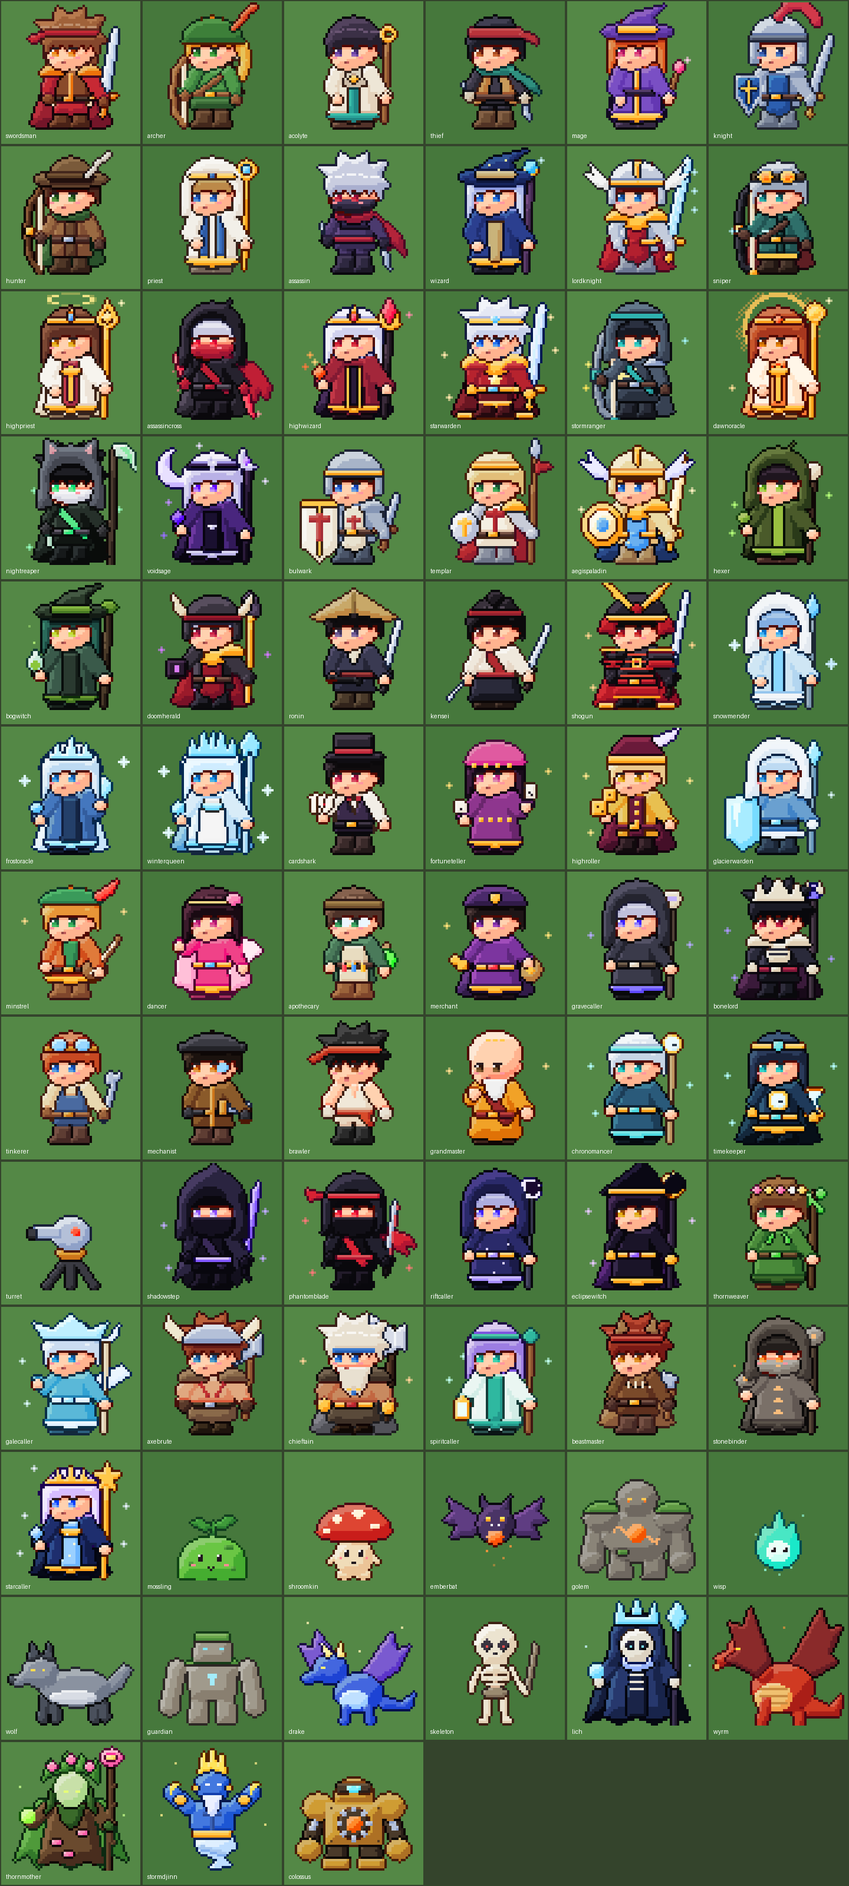
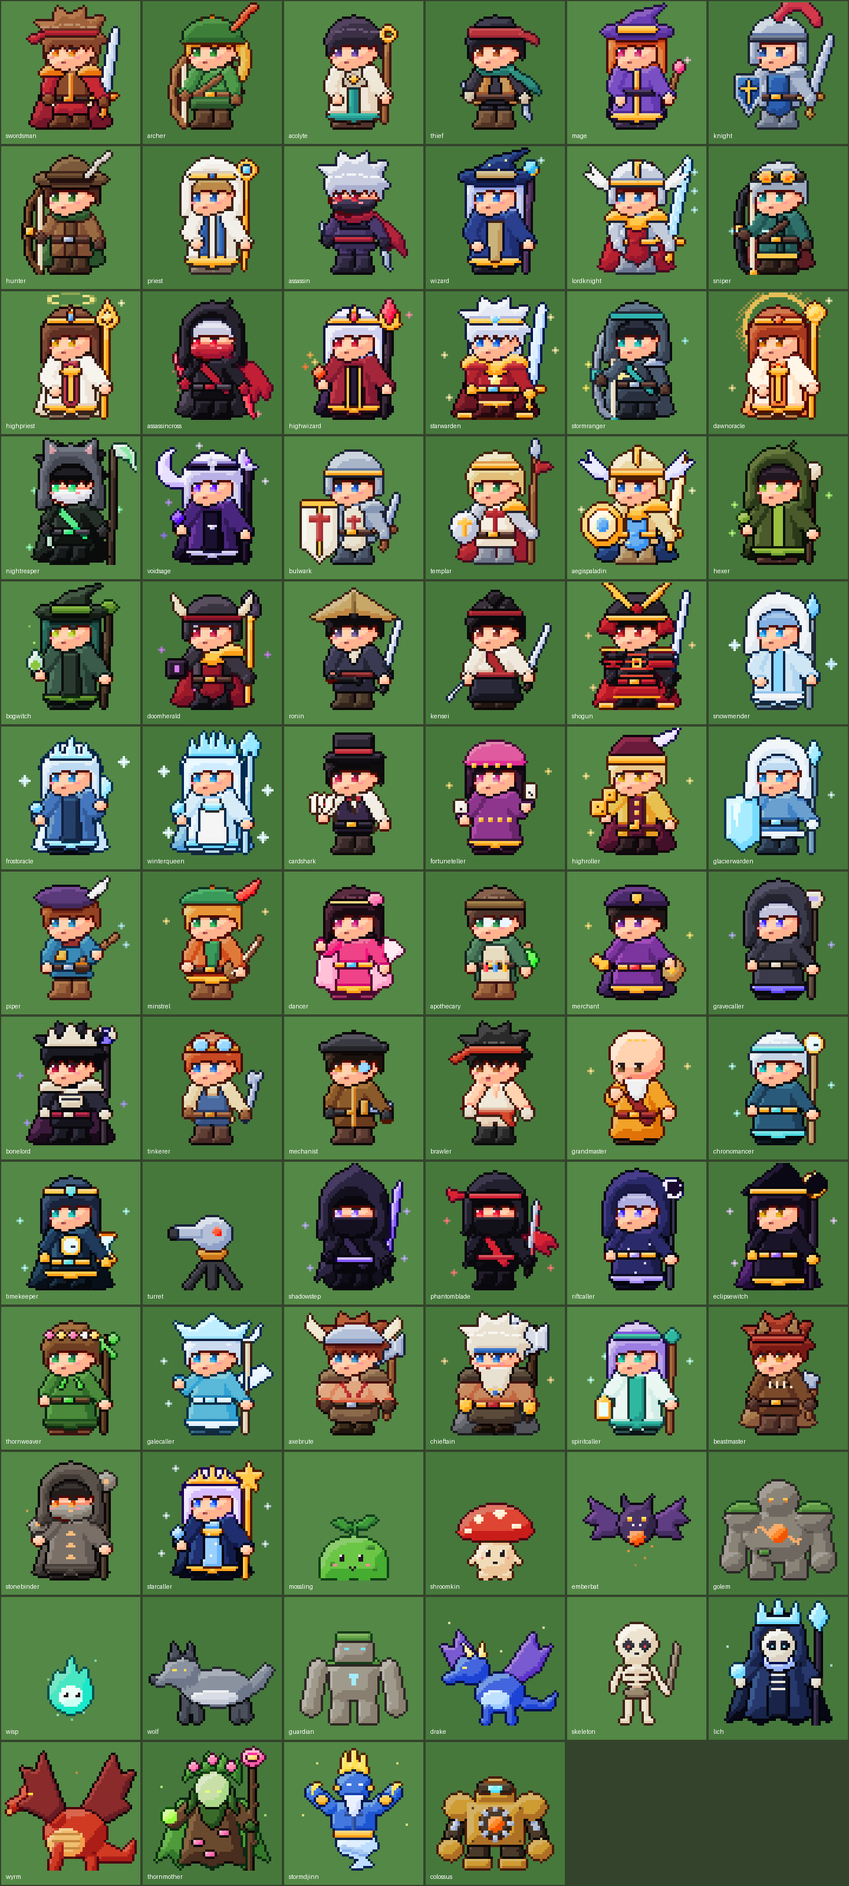
Minstrel moves to 4 gold (Crescendo 90 mana); new 1-gold Bard: Piper with Encore

diff --git a/ro-autobattler.html b/ro-autobattler.html
@@ -358,7 +358,7 @@ select{background:#1f1610;color:var(--text);border:1px solid #5a4024;border-radi
         <li><b>Mark heroes</b> you want in the 📖 Codex (☆, up to 10): they glow gold in the shop.</li>
         <li><b>Runs</b> (☰): <b>Daily Challenge</b> gives everyone the same shops, enemies and events for the day; <b>Hard</b> unlocks at round 15 and adds a run modifier. Every 4th round brings an <b>event</b>: a merchant, a mystery chest or a training ground.</li>
         <li><b>Ninjas</b> dash between enemies. <b>Gravity</b> mages pull enemies together (Event Horizon holds them in a black hole). <b>Druids</b> 🌿 <b>root</b> enemies (rooted: can't walk or use moving skills, only attacks what is in range) and carry allies to safety. <b>Berserkers</b> are giants that spin their axes through crowds. Gambler cards fly as projectiles; summons' attacks carry a small elemental effect (burn, bleed, slow, mana drain…).</li>
-        <li><b>Bards</b> sing to nearby allies, one song every 4s: ♪ Haste (attack speed) → Guard (less damage taken) → Spirit (mana). <b>Alchemists</b> throw potions and earn gold. <b>Necromancers</b> raise fallen enemies to fight for you. <b>Engineers</b> build turrets. <b>Monks</b> dodge and get faster with every hit. <b>Teleporters</b> move allies onto the weakest enemy: the 2💰 Teleporter sends the ally behind it (or any neighbour), the 4💰 Warp Master sends everyone within 2 cells and stuns where they land.</li>
+        <li><b>Bards</b> sing to nearby allies, one song every 4s: ♪ Haste (attack speed) → Guard (less damage taken) → Spirit (mana). The 1💰 Piper replays the current song (Encore); the 4💰 Minstrel plays all three at once (Crescendo). <b>Alchemists</b> throw potions and earn gold. <b>Necromancers</b> raise fallen enemies to fight for you. <b>Engineers</b> build turrets. <b>Monks</b> dodge and get faster with every hit. <b>Teleporters</b> move allies onto the weakest enemy: the 2💰 Teleporter sends the ally behind it (or any neighbour), the 4💰 Warp Master sends everyone within 2 cells and stuns where they land.</li>
         <li><b>Statuses</b>: 💫 Stun 1s · 🤐 Silence 2s · 🌫 Blind 2s · 🚫 Disarm 1s · 🐌 Slow · ☠ <b>Poison</b>: damage once per second, <b>stacks up to 5</b>, lasts at least 5s and cuts healing on the target by 30% (good vs healers) · 🔥 <b>Burn</b>: fire skills, damage twice per second, refreshes instead of stacking, <b>deals double damage to shields</b> and <b>jumps to a nearby enemy</b> when the target dies (good vs shields and groups). Fire melts Frozen; freezing puts out fire. A hero can be poisoned and burning at once · 🧊 Frozen — ice skills may freeze; any direct hit shatters it. Bosses can't be frozen.</li>
         <li><b>Shop odds</b>: 2💰 heroes from round 4, 3💰 from round 8, 4💰 from round 12. Each shop Upgrade improves the odds; a fully upgraded shop late in the run rolls 1💰 heroes only 10% of the time, and each slot has a 5% extra chance to show a hero you already own (not yet ★★★). "Lock" keeps the shop for next round.</li>
         <li><b>Field slots</b>: start with 3, buy more up to 9 (6, 10, 15, 21, 28, 36 gold).</li>
@@ -490,7 +490,8 @@ const UNITS = [
   {id:'stonebinder', name:'Stonebinder',  cls:'summoner',org:'ironvow',  cost:3,hp:980, atk:72, range:3,as:1.1, ms:1.4,calls:'guardian'},
   {id:'starcaller',  name:'Starcaller',   cls:'summoner',org:'starborn', cost:4,hp:1080,atk:100,range:4,as:1.1, ms:1.3,calls:'drake'},
   // bards: a song aura that cycles every 4s: Haste (attack speed) -> Guard (less damage taken) -> Spirit (mana)
-  {id:'minstrel',    name:'Minstrel',     cls:'bard',org:'starborn',     cost:1,hp:480, atk:36, range:3,as:1.0, ms:1.4},
+  {id:'piper',       name:'Piper',        cls:'bard',org:'gilded',       cost:1,hp:460, atk:34, range:3,as:1.0, ms:1.4},
+  {id:'minstrel',    name:'Minstrel',     cls:'bard',org:'starborn',     cost:4,hp:1150,atk:85, range:3,as:1.0, ms:1.4},
   {id:'dancer',      name:'Blade Dancer', cls:'bard',org:'moonblood',    cost:3,hp:1050,atk:95, range:1,as:.7, ms:2.0},
   // alchemists: potions and gold
   {id:'apothecary',  name:'Apothecary',   cls:'alchemist',org:'wildheart',cost:1,hp:470, atk:42, range:3,as:1.0, ms:1.4},
@@ -792,7 +793,10 @@ const SKILLS = {
   winterqueen:{name:'Absolute Zero', mp:100, desc:'Wards the two most endangered allies in ice for 2.5s, gives every ally 120% of its heal over 5s, and enemies next to the warded allies have a 40% chance to Freeze for 2s.',
     cast(a){ V({k:'flash',x:0,y:0,c:'#dff8ff',m:.3}); for(const w of friends(a).sort(byHurt).slice(0,2)){ ward(w,2.5,a); for(const e of foes(a)) if(dist(e,w)<=1.5) freeze(e,.4,2); }
       for(const b of friends(a)) hot(b,a.heal*1.2,5,a); FX('strike',a.x,a.y+.3,{s:.9,tint:'#cff6ff',m:.6}); }},
-  minstrel:{name:'Crescendo', mp:70, desc:'Plays all three songs at once at double strength for 4s for allies within 3 cells: +40% attack speed, 30% less damage taken and +8 mana per second.',
+  piper:{name:'Encore', mp:60, desc:'Replays the song that is playing right now at double strength for 3s for allies within 2 cells (Haste: +40% attack speed · Guard: 30% less damage taken · Spirit: +8 mana per second).',
+    cast(a){ const s=S.fight.song||0; for(const b of friends(a)) if(dist(a,b)<=2){ b.enc={t:3,song:s}; FX('spark',b.x,b.y-.5,{s:.45,tint:SONGS[s].c,m:.5}); }
+      V({k:'ring',x:a.x,y:a.y,r:2,c:SONGS[s].c,m:.6}); notes(a,3); }},
+  minstrel:{name:'Crescendo', mp:90, desc:'Plays all three songs at once at double strength for 4s for allies within 3 cells: +40% attack speed, 30% less damage taken and +8 mana per second.',
     cast(a){ for(const b of friends(a)) if(dist(a,b)<=3){ b.cresc=4; FX('spark',b.x,b.y-.5,{s:.5,tint:'#ffd27a',m:.5}); } V({k:'ring',x:a.x,y:a.y,r:3,c:'#ffb050',m:.7}); notes(a,6); }},
   dancer:{name:'Blade Waltz', mp:60, desc:'Spins through the enemies around it: 160% damage to every enemy within 1.5 cells, and allies within 2 cells gain haste (+30% attack speed) for 4s.',
     cast(a){ for(const e of foes(a)) if(dist(a,e)<=1.5) hit(a,e,1.6); for(const b of friends(a)) if(dist(a,b)<=2) b.haste=Math.max(b.haste||0,4);
@@ -1009,6 +1013,7 @@ const DEFAULT_SPRITES = {
[7 lines of base64/hex data omitted]
@@ -1202,7 +1207,7 @@ const SND=(()=>{
     get musVol(){ return musVol; }, get sfxVol(){ return sfxVol; }, get musicOn(){ return musVol>0; }};
 })();
 // which sound each skill makes when it goes off
-const SKILL_SND={minstrel:'bless',dancer:'flurry',apothecary:'curse',merchant:'reroll',gravecaller:'summon',bonelord:'summon',tinkerer:'zap',mechanist:'boom',brawler:'flurry',grandmaster:'slam',chronomancer:'teleport',timekeeper:'teleport',turret:'zap',swordsman:'slam',knight:'stun',lordknight:'slam',archer:'shoot',hunter:'trap',sniper:'snipe',acolyte:'heal',priest:'heal',highpriest:'bless',
+const SKILL_SND={minstrel:'bless',piper:'bless',dancer:'flurry',apothecary:'curse',merchant:'reroll',gravecaller:'summon',bonelord:'summon',tinkerer:'zap',mechanist:'boom',brawler:'flurry',grandmaster:'slam',chronomancer:'teleport',timekeeper:'teleport',turret:'zap',swordsman:'slam',knight:'stun',lordknight:'slam',archer:'shoot',hunter:'trap',sniper:'snipe',acolyte:'heal',priest:'heal',highpriest:'bless',
   thief:'steal',assassin:'flurry',assassincross:'teleport',mage:'fire',wizard:'ice',highwizard:'fire',starwarden:'bash',stormranger:'arrows',dawnoracle:'bless',
   nightreaper:'curse',voidsage:'zap',bulwark:'bash',templar:'teleport',aegispaladin:'bless',spiritcaller:'summon',beastmaster:'summon',stonebinder:'quake',
   starcaller:'summon',cardshark:'reroll',fortuneteller:'star',highroller:'boom',glacierwarden:'ice',ronin:'steal',kensei:'flurry',shogun:'bash',snowmender:'heal',frostoracle:'ice',winterqueen:'freeze',hexer:'curse',bogwitch:'poison',doomherald:'curse',mossling:'slime',shroomkin:'poison',emberbat:'fire',golem:'quake',lich:'ice',wyrm:'flame'};
@@ -1901,7 +1906,7 @@ function burst(x,y,c,n,spd=2.5,size=3,g=6){
     S.fight.parts.push({x,y,vx:Math.cos(an)*v,vy:Math.sin(an)*v-(g>0?1.5:0),life,max:life,c,size,g}); }
 }
 function heal(u,amt,src){ if(u.hp<=0) return; amt*=healMul(u)*(src&&CASTER===src?src.skHeal||1:1)*(1+(src&&src.healOut||0)); if(src) src.hl+=Math.min(amt,u.max-u.hp); u.hp=Math.min(u.max,u.hp+amt); pop(u,'+'+Math.round(amt),'#7CFC9A'); SND.play('heal'); burst(u.x,u.y,'#9dffb0',5,.8,3,-2.5); }
-const PROJ={thornmother:'p_plant',stormdjinn:'p_light',colossus:'p_light',cardshark:'card',fortuneteller:'card',highroller:'card',riftcaller:'p_arcane',eclipsewitch:'p_dark',thornweaver:'p_plant',galecaller:'p_light',minstrel:'p_light',apothecary:'p_plant',merchant:'p_light',gravecaller:'p_dark',bonelord:'p_dark',tinkerer:'p_light',mechanist:'p_light',chronomancer:'p_arcane',timekeeper:'p_arcane',turret:'p_light',glacierwarden:'p_ice',snowmender:'p_ice',frostoracle:'p_ice',winterqueen:'p_ice',hexer:'p_plant',bogwitch:'p_plant',doomherald:'p_dark',mage:'p_fire',highwizard:'p_fire',drake:'p_fire',emberbat:'p_fire',wyrm:'p_fire',wizard:'p_ice',lich:'p_ice',voidsage:'p_dark',
+const PROJ={thornmother:'p_plant',stormdjinn:'p_light',colossus:'p_light',cardshark:'card',fortuneteller:'card',highroller:'card',riftcaller:'p_arcane',eclipsewitch:'p_dark',thornweaver:'p_plant',galecaller:'p_light',minstrel:'p_light',piper:'p_light',apothecary:'p_plant',merchant:'p_light',gravecaller:'p_dark',bonelord:'p_dark',tinkerer:'p_light',mechanist:'p_light',chronomancer:'p_arcane',timekeeper:'p_arcane',turret:'p_light',glacierwarden:'p_ice',snowmender:'p_ice',frostoracle:'p_ice',winterqueen:'p_ice',hexer:'p_plant',bogwitch:'p_plant',doomherald:'p_dark',mage:'p_fire',highwizard:'p_fire',drake:'p_fire',emberbat:'p_fire',wyrm:'p_fire',wizard:'p_ice',lich:'p_ice',voidsage:'p_dark',
   acolyte:'p_light',priest:'p_light',highpriest:'p_light',dawnoracle:'p_light',spiritcaller:'p_arcane',starcaller:'p_arcane',stonebinder:'p_arcane',wisp:'p_arcane',shroomkin:'p_plant'};
 // basic ranged attacks fly as small missiles (skills keep the big spell sprites)
 const MINI_PROJ={p_ice:'shard',p_plant:'thorn',p_dark:'dark',p_arcane:'needle',p_light:'spark',magic:'ember',wizard:'shard',voidsage:'dark',holy:'spark'};
@@ -2021,7 +2026,8 @@ function step(dt){
   for(const b of alive) if(b.fontK||b.bannerK) for(const x of alive) if(x.team===b.team&&dist(b,x)<=2){   // Mana Fountain, War Banner
     if(b.fontK) gainMp(x,2*b.fontK*dt); if(b.bannerK) x.bannerAmp=Math.max(x.bannerAmp||0,.08*b.bannerK); }
   for(const x of alive){ x.sAS=0; x.sRed=0; x.sMp=0;
-    if(x.cresc>0){ x.cresc-=dt; x.sAS=.4; x.sRed=.3; x.sMp=8; } }
+    if(x.cresc>0){ x.cresc-=dt; x.sAS=.4; x.sRed=.3; x.sMp=8; }
+    if(x.enc){ if((x.enc.t-=dt)<=0) x.enc=null; else if(x.enc.song===0) x.sAS=Math.max(x.sAS,.4); else if(x.enc.song===1) x.sRed=Math.max(x.sRed,.3); else x.sMp=Math.max(x.sMp,8); } }
   for(const b of alive) if(U[b.type].cls==='bard'&&!(b.stun>0)&&!(b.frz>0)) for(const x of alive) if(x.team===b.team&&dist(b,x)<=b.songR){ const k=b.songK;
     if(song===0) x.sAS=Math.max(x.sAS,.2*k); else if(song===1) x.sRed=Math.max(x.sRed,.15*k); else x.sMp=Math.max(x.sMp,4*k); }
   for(const a of alive){

diff --git a/tools/game_template.html b/tools/game_template.html
@@ -358,7 +358,7 @@ select{background:#1f1610;color:var(--text);border:1px solid #5a4024;border-radi
         <li><b>Mark heroes</b> you want in the 📖 Codex (☆, up to 10): they glow gold in the shop.</li>
         <li><b>Runs</b> (☰): <b>Daily Challenge</b> gives everyone the same shops, enemies and events for the day; <b>Hard</b> unlocks at round 15 and adds a run modifier. Every 4th round brings an <b>event</b>: a merchant, a mystery chest or a training ground.</li>
         <li><b>Ninjas</b> dash between enemies. <b>Gravity</b> mages pull enemies together (Event Horizon holds them in a black hole). <b>Druids</b> 🌿 <b>root</b> enemies (rooted: can't walk or use moving skills, only attacks what is in range) and carry allies to safety. <b>Berserkers</b> are giants that spin their axes through crowds. Gambler cards fly as projectiles; summons' attacks carry a small elemental effect (burn, bleed, slow, mana drain…).</li>
-        <li><b>Bards</b> sing to nearby allies, one song every 4s: ♪ Haste (attack speed) → Guard (less damage taken) → Spirit (mana). <b>Alchemists</b> throw potions and earn gold. <b>Necromancers</b> raise fallen enemies to fight for you. <b>Engineers</b> build turrets. <b>Monks</b> dodge and get faster with every hit. <b>Teleporters</b> move allies onto the weakest enemy: the 2💰 Teleporter sends the ally behind it (or any neighbour), the 4💰 Warp Master sends everyone within 2 cells and stuns where they land.</li>
+        <li><b>Bards</b> sing to nearby allies, one song every 4s: ♪ Haste (attack speed) → Guard (less damage taken) → Spirit (mana). The 1💰 Piper replays the current song (Encore); the 4💰 Minstrel plays all three at once (Crescendo). <b>Alchemists</b> throw potions and earn gold. <b>Necromancers</b> raise fallen enemies to fight for you. <b>Engineers</b> build turrets. <b>Monks</b> dodge and get faster with every hit. <b>Teleporters</b> move allies onto the weakest enemy: the 2💰 Teleporter sends the ally behind it (or any neighbour), the 4💰 Warp Master sends everyone within 2 cells and stuns where they land.</li>
         <li><b>Statuses</b>: 💫 Stun 1s · 🤐 Silence 2s · 🌫 Blind 2s · 🚫 Disarm 1s · 🐌 Slow · ☠ <b>Poison</b>: damage once per second, <b>stacks up to 5</b>, lasts at least 5s and cuts healing on the target by 30% (good vs healers) · 🔥 <b>Burn</b>: fire skills, damage twice per second, refreshes instead of stacking, <b>deals double damage to shields</b> and <b>jumps to a nearby enemy</b> when the target dies (good vs shields and groups). Fire melts Frozen; freezing puts out fire. A hero can be poisoned and burning at once · 🧊 Frozen — ice skills may freeze; any direct hit shatters it. Bosses can't be frozen.</li>
         <li><b>Shop odds</b>: 2💰 heroes from round 4, 3💰 from round 8, 4💰 from round 12. Each shop Upgrade improves the odds; a fully upgraded shop late in the run rolls 1💰 heroes only 10% of the time, and each slot has a 5% extra chance to show a hero you already own (not yet ★★★). "Lock" keeps the shop for next round.</li>
         <li><b>Field slots</b>: start with 3, buy more up to 9 (6, 10, 15, 21, 28, 36 gold).</li>
@@ -490,7 +490,8 @@ const UNITS = [
   {id:'stonebinder', name:'Stonebinder',  cls:'summoner',org:'ironvow',  cost:3,hp:980, atk:72, range:3,as:1.1, ms:1.4,calls:'guardian'},
   {id:'starcaller',  name:'Starcaller',   cls:'summoner',org:'starborn', cost:4,hp:1080,atk:100,range:4,as:1.1, ms:1.3,calls:'drake'},
   // bards: a song aura that cycles every 4s: Haste (attack speed) -> Guard (less damage taken) -> Spirit (mana)
-  {id:'minstrel',    name:'Minstrel',     cls:'bard',org:'starborn',     cost:1,hp:480, atk:36, range:3,as:1.0, ms:1.4},
+  {id:'piper',       name:'Piper',        cls:'bard',org:'gilded',       cost:1,hp:460, atk:34, range:3,as:1.0, ms:1.4},
+  {id:'minstrel',    name:'Minstrel',     cls:'bard',org:'starborn',     cost:4,hp:1150,atk:85, range:3,as:1.0, ms:1.4},
   {id:'dancer',      name:'Blade Dancer', cls:'bard',org:'moonblood',    cost:3,hp:1050,atk:95, range:1,as:.7, ms:2.0},
   // alchemists: potions and gold
   {id:'apothecary',  name:'Apothecary',   cls:'alchemist',org:'wildheart',cost:1,hp:470, atk:42, range:3,as:1.0, ms:1.4},
@@ -792,7 +793,10 @@ const SKILLS = {
   winterqueen:{name:'Absolute Zero', mp:100, desc:'Wards the two most endangered allies in ice for 2.5s, gives every ally 120% of its heal over 5s, and enemies next to the warded allies have a 40% chance to Freeze for 2s.',
     cast(a){ V({k:'flash',x:0,y:0,c:'#dff8ff',m:.3}); for(const w of friends(a).sort(byHurt).slice(0,2)){ ward(w,2.5,a); for(const e of foes(a)) if(dist(e,w)<=1.5) freeze(e,.4,2); }
       for(const b of friends(a)) hot(b,a.heal*1.2,5,a); FX('strike',a.x,a.y+.3,{s:.9,tint:'#cff6ff',m:.6}); }},
-  minstrel:{name:'Crescendo', mp:70, desc:'Plays all three songs at once at double strength for 4s for allies within 3 cells: +40% attack speed, 30% less damage taken and +8 mana per second.',
+  piper:{name:'Encore', mp:60, desc:'Replays the song that is playing right now at double strength for 3s for allies within 2 cells (Haste: +40% attack speed · Guard: 30% less damage taken · Spirit: +8 mana per second).',
+    cast(a){ const s=S.fight.song||0; for(const b of friends(a)) if(dist(a,b)<=2){ b.enc={t:3,song:s}; FX('spark',b.x,b.y-.5,{s:.45,tint:SONGS[s].c,m:.5}); }
+      V({k:'ring',x:a.x,y:a.y,r:2,c:SONGS[s].c,m:.6}); notes(a,3); }},
+  minstrel:{name:'Crescendo', mp:90, desc:'Plays all three songs at once at double strength for 4s for allies within 3 cells: +40% attack speed, 30% less damage taken and +8 mana per second.',
     cast(a){ for(const b of friends(a)) if(dist(a,b)<=3){ b.cresc=4; FX('spark',b.x,b.y-.5,{s:.5,tint:'#ffd27a',m:.5}); } V({k:'ring',x:a.x,y:a.y,r:3,c:'#ffb050',m:.7}); notes(a,6); }},
   dancer:{name:'Blade Waltz', mp:60, desc:'Spins through the enemies around it: 160% damage to every enemy within 1.5 cells, and allies within 2 cells gain haste (+30% attack speed) for 4s.',
     cast(a){ for(const e of foes(a)) if(dist(a,e)<=1.5) hit(a,e,1.6); for(const b of friends(a)) if(dist(a,b)<=2) b.haste=Math.max(b.haste||0,4);
@@ -1123,7 +1127,7 @@ const SND=(()=>{
     get musVol(){ return musVol; }, get sfxVol(){ return sfxVol; }, get musicOn(){ return musVol>0; }};
 })();
 // which sound each skill makes when it goes off
-const SKILL_SND={minstrel:'bless',dancer:'flurry',apothecary:'curse',merchant:'reroll',gravecaller:'summon',bonelord:'summon',tinkerer:'zap',mechanist:'boom',brawler:'flurry',grandmaster:'slam',chronomancer:'teleport',timekeeper:'teleport',turret:'zap',swordsman:'slam',knight:'stun',lordknight:'slam',archer:'shoot',hunter:'trap',sniper:'snipe',acolyte:'heal',priest:'heal',highpriest:'bless',
+const SKILL_SND={minstrel:'bless',piper:'bless',dancer:'flurry',apothecary:'curse',merchant:'reroll',gravecaller:'summon',bonelord:'summon',tinkerer:'zap',mechanist:'boom',brawler:'flurry',grandmaster:'slam',chronomancer:'teleport',timekeeper:'teleport',turret:'zap',swordsman:'slam',knight:'stun',lordknight:'slam',archer:'shoot',hunter:'trap',sniper:'snipe',acolyte:'heal',priest:'heal',highpriest:'bless',
   thief:'steal',assassin:'flurry',assassincross:'teleport',mage:'fire',wizard:'ice',highwizard:'fire',starwarden:'bash',stormranger:'arrows',dawnoracle:'bless',
   nightreaper:'curse',voidsage:'zap',bulwark:'bash',templar:'teleport',aegispaladin:'bless',spiritcaller:'summon',beastmaster:'summon',stonebinder:'quake',
   starcaller:'summon',cardshark:'reroll',fortuneteller:'star',highroller:'boom',glacierwarden:'ice',ronin:'steal',kensei:'flurry',shogun:'bash',snowmender:'heal',frostoracle:'ice',winterqueen:'freeze',hexer:'curse',bogwitch:'poison',doomherald:'curse',mossling:'slime',shroomkin:'poison',emberbat:'fire',golem:'quake',lich:'ice',wyrm:'flame'};
@@ -1822,7 +1826,7 @@ function burst(x,y,c,n,spd=2.5,size=3,g=6){
     S.fight.parts.push({x,y,vx:Math.cos(an)*v,vy:Math.sin(an)*v-(g>0?1.5:0),life,max:life,c,size,g}); }
 }
 function heal(u,amt,src){ if(u.hp<=0) return; amt*=healMul(u)*(src&&CASTER===src?src.skHeal||1:1)*(1+(src&&src.healOut||0)); if(src) src.hl+=Math.min(amt,u.max-u.hp); u.hp=Math.min(u.max,u.hp+amt); pop(u,'+'+Math.round(amt),'#7CFC9A'); SND.play('heal'); burst(u.x,u.y,'#9dffb0',5,.8,3,-2.5); }
-const PROJ={thornmother:'p_plant',stormdjinn:'p_light',colossus:'p_light',cardshark:'card',fortuneteller:'card',highroller:'card',riftcaller:'p_arcane',eclipsewitch:'p_dark',thornweaver:'p_plant',galecaller:'p_light',minstrel:'p_light',apothecary:'p_plant',merchant:'p_light',gravecaller:'p_dark',bonelord:'p_dark',tinkerer:'p_light',mechanist:'p_light',chronomancer:'p_arcane',timekeeper:'p_arcane',turret:'p_light',glacierwarden:'p_ice',snowmender:'p_ice',frostoracle:'p_ice',winterqueen:'p_ice',hexer:'p_plant',bogwitch:'p_plant',doomherald:'p_dark',mage:'p_fire',highwizard:'p_fire',drake:'p_fire',emberbat:'p_fire',wyrm:'p_fire',wizard:'p_ice',lich:'p_ice',voidsage:'p_dark',
+const PROJ={thornmother:'p_plant',stormdjinn:'p_light',colossus:'p_light',cardshark:'card',fortuneteller:'card',highroller:'card',riftcaller:'p_arcane',eclipsewitch:'p_dark',thornweaver:'p_plant',galecaller:'p_light',minstrel:'p_light',piper:'p_light',apothecary:'p_plant',merchant:'p_light',gravecaller:'p_dark',bonelord:'p_dark',tinkerer:'p_light',mechanist:'p_light',chronomancer:'p_arcane',timekeeper:'p_arcane',turret:'p_light',glacierwarden:'p_ice',snowmender:'p_ice',frostoracle:'p_ice',winterqueen:'p_ice',hexer:'p_plant',bogwitch:'p_plant',doomherald:'p_dark',mage:'p_fire',highwizard:'p_fire',drake:'p_fire',emberbat:'p_fire',wyrm:'p_fire',wizard:'p_ice',lich:'p_ice',voidsage:'p_dark',
   acolyte:'p_light',priest:'p_light',highpriest:'p_light',dawnoracle:'p_light',spiritcaller:'p_arcane',starcaller:'p_arcane',stonebinder:'p_arcane',wisp:'p_arcane',shroomkin:'p_plant'};
 // basic ranged attacks fly as small missiles (skills keep the big spell sprites)
 const MINI_PROJ={p_ice:'shard',p_plant:'thorn',p_dark:'dark',p_arcane:'needle',p_light:'spark',magic:'ember',wizard:'shard',voidsage:'dark',holy:'spark'};
@@ -1942,7 +1946,8 @@ function step(dt){
   for(const b of alive) if(b.fontK||b.bannerK) for(const x of alive) if(x.team===b.team&&dist(b,x)<=2){   // Mana Fountain, War Banner
     if(b.fontK) gainMp(x,2*b.fontK*dt); if(b.bannerK) x.bannerAmp=Math.max(x.bannerAmp||0,.08*b.bannerK); }
   for(const x of alive){ x.sAS=0; x.sRed=0; x.sMp=0;
-    if(x.cresc>0){ x.cresc-=dt; x.sAS=.4; x.sRed=.3; x.sMp=8; } }
+    if(x.cresc>0){ x.cresc-=dt; x.sAS=.4; x.sRed=.3; x.sMp=8; }
+    if(x.enc){ if((x.enc.t-=dt)<=0) x.enc=null; else if(x.enc.song===0) x.sAS=Math.max(x.sAS,.4); else if(x.enc.song===1) x.sRed=Math.max(x.sRed,.3); else x.sMp=Math.max(x.sMp,8); } }
   for(const b of alive) if(U[b.type].cls==='bard'&&!(b.stun>0)&&!(b.frz>0)) for(const x of alive) if(x.team===b.team&&dist(b,x)<=b.songR){ const k=b.songK;
     if(song===0) x.sAS=Math.max(x.sAS,.2*k); else if(song===1) x.sRed=Math.max(x.sRed,.15*k); else x.sMp=Math.max(x.sMp,4*k); }
   for(const a of alive){

diff --git a/tools/newclasses.py b/tools/newclasses.py
@@ -31,6 +31,29 @@ def minstrel():
     return s
 
 
+def piper():   # 1-gold bard: a travelling flute player
+    s = Spr()
+    tunic, patch, gold = ramp('#3a8ab8', 1.1), ramp('#e8c45a', 1.0), P['gold']
+    legs(s, ramp('#6a4a32'), P['leather'])
+    torso(s, tunic, hem=44)
+    s.part(patch, [('rect', 21.5, 33, 25.5, 37), ('rect', 30.5, 38, 34.5, 42)], soft=.6)   # patched tunic
+    belt(s, P['darkleather'], 39, P['steel'])
+    s.part(ramp('#b84a3a'), [('ell', 28, 28.5, 8, 2.6)], soft=1, cast=1)   # scarf
+    with s.grp('weapon'):   # a wooden flute held out to the side
+        s.part(P['wood'], [('cap', 33, 37, 47, 27, 1.0)], soft=.5, gloss=.5)
+        for i in range(3):
+            s.part(ramp('#3a2014'), [('ell', 39 + i * 2.3, 32.6 - i * 1.65, .5, .5)], soft=.2, line=False, flat=True)
+    arm(s, tunic, SKIN, (35, 30), (37.5, 35.5), (39, 33.5))
+    arm(s, tunic, SKIN, (21, 30), (18.5, 35), (18, 39))
+    head(s)
+    bangs(s, ramp('#b0602e', 1.0), 'neat', shine=9)
+    s.part(ramp('#5a3a7a', 1.1), [('ell', 26, 10.5, 12.5, 4.5), ('rect', 16, 10, 37, 13)], soft=1.2, cast=2)   # floppy beret
+    s.part(ramp('#f2f2f2', .8), [('poly', [(35, 9), (44, 1.5), (42, 7.5), (37, 11)])], soft=.5)   # feather
+    face(s, '#3a8ab8', 'smile')
+    for x, y in ((49, 22), (51, 30)):
+        sparkle(s, x, y, (180, 230, 255))
+    return s
+
 def dancer():
     s = Spr()
     silk, rose, gold = ramp('#e84a8a', 1.1, 1.1), ramp('#ffc0d8', .8), P['gold']
@@ -294,6 +317,6 @@ def timekeeper():
     return s
 
 
-NEWCLASSES = dict(minstrel=minstrel, dancer=dancer, apothecary=apothecary, merchant=merchant, gravecaller=gravecaller,
+NEWCLASSES = dict(piper=piper, minstrel=minstrel, dancer=dancer, apothecary=apothecary, merchant=merchant, gravecaller=gravecaller,
                   bonelord=bonelord, tinkerer=tinkerer, mechanist=engineer, brawler=brawler, grandmaster=grandmaster,
                   chronomancer=chronomancer, timekeeper=timekeeper, turret=turret)
